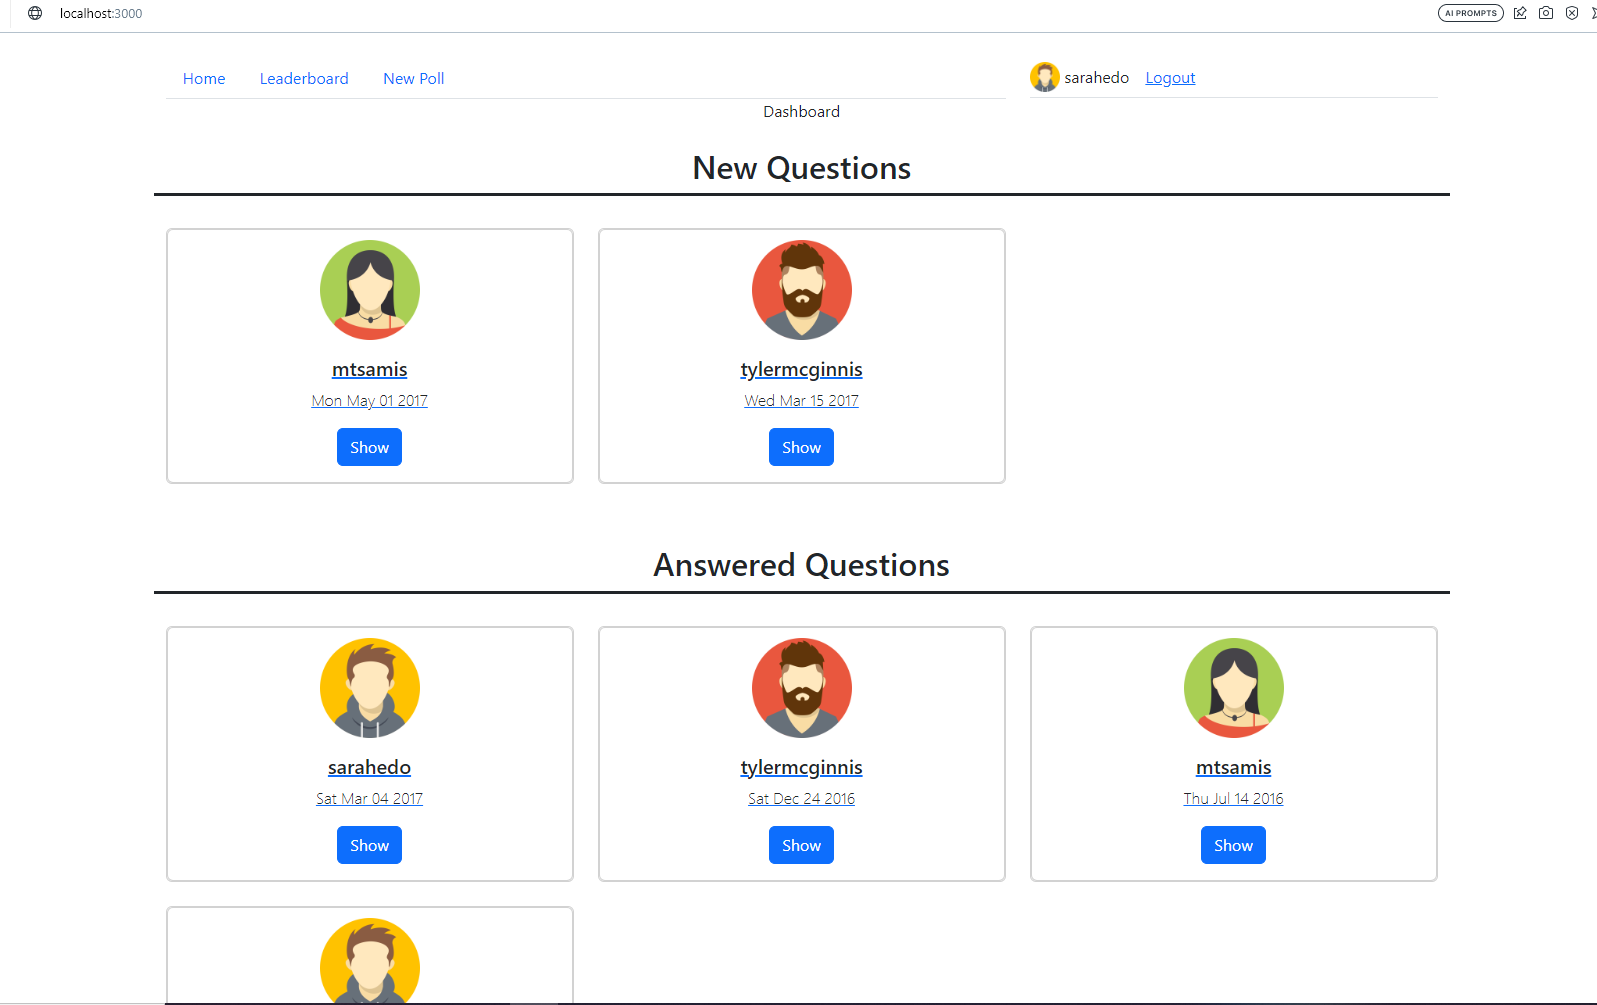
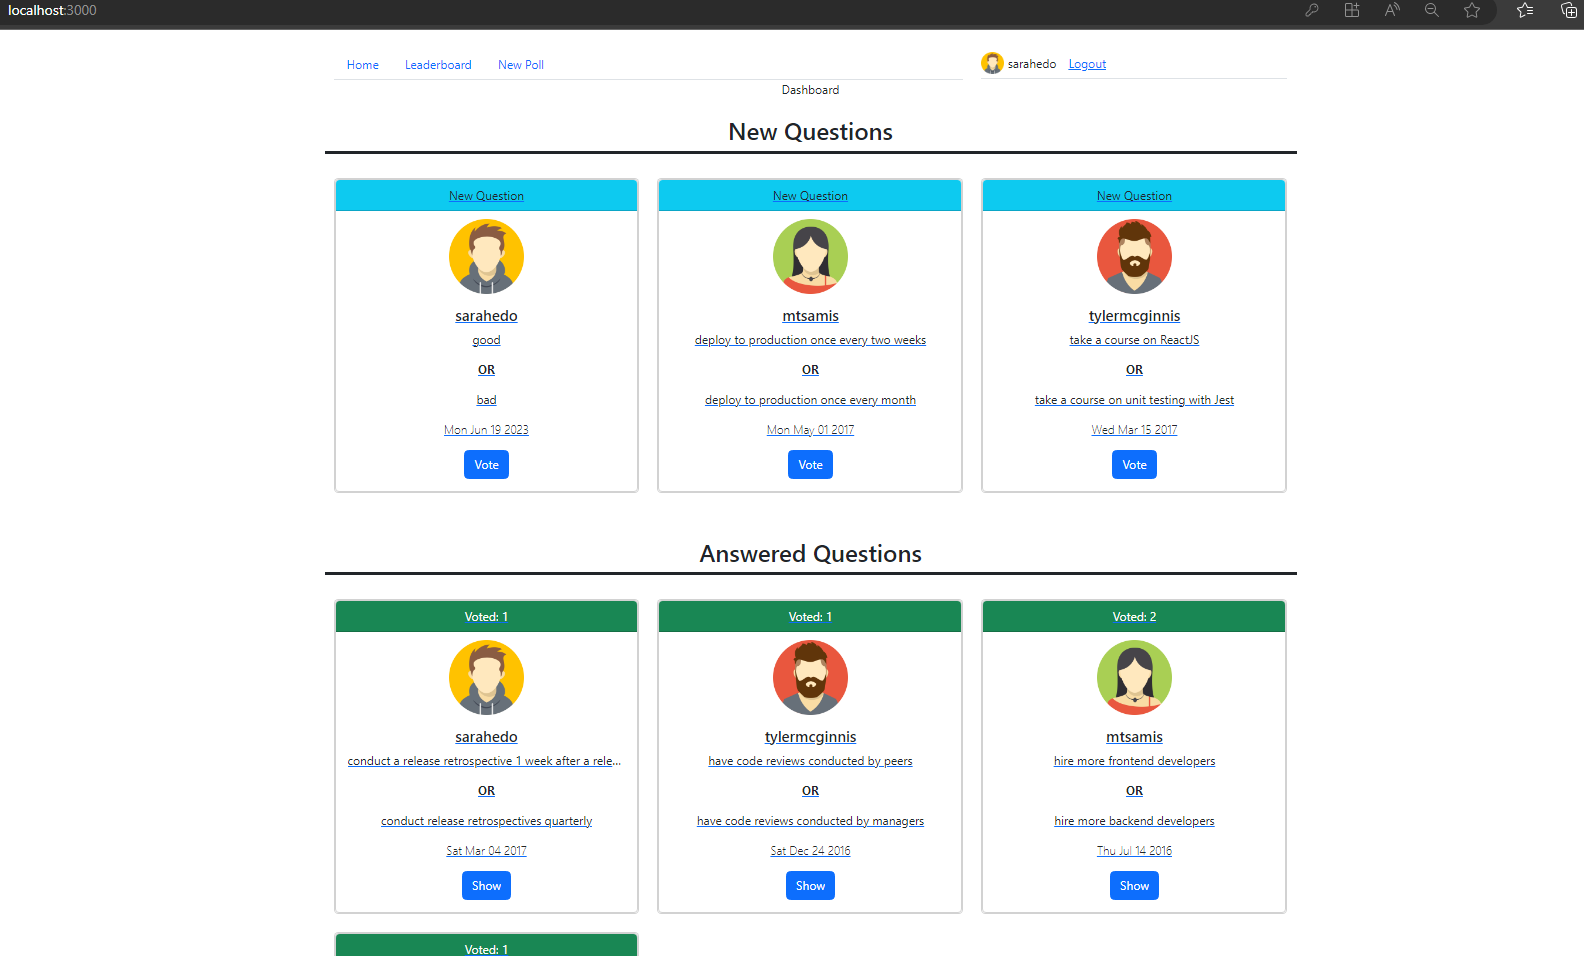
master | Update new question and answer question model and show detail information answer question and image

diff --git a/react-would-you-rather/src/components/Card.js b/react-would-you-rather/src/components/Card.js
@@ -1,16 +1,35 @@
 import { connect } from "react-redux";
 import { Link } from "react-router-dom";
 
-const Card = ({ question, author }) => {
+const Card = ({ question, author, hasVoted }) => {
+
     return (
         <Link to={'questions/' + question.id}>
-            <div className="card" style={{textAlign:'center',display:'block', marginLeft:'auto', marginRight:'auto'}}>
-                <img src={author?.avatarURL} style={{height:'100px', width:'100px', marginTop:'10px'}} className="card-img-top" alt="Author"/>
-                    <div className="card-body">
-                        <h5 className="card-title">{question.author}</h5>
-                        <p className="fw-light">{new Date(question.timestamp).toDateString()}</p>
-                        <button className="btn btn-primary">Show</button>
-                    </div>
+            <div className="card" style={{ textAlign: 'center', display: 'block', marginLeft: 'auto', marginRight: 'auto' }}>
+                {
+                    hasVoted ?
+                        <div className="card-header bg-success text-white">
+                            Voted: {question.optionOne.votes.length + question.optionTwo.votes.length}
+                        </div>
+                        :
+                        <div className="card-header bg-info text-dark">
+                            New Question
+                        </div>
+                }
+                <img src={author?.avatarURL} style={{ height: '100px', width: '100px', marginTop: '10px' }} className="card-img-top" alt="Author" />
+                <div className="card-body">
+                    <h5 className="card-title">{question.author}</h5>
+                    <p className="text-truncate">{question.optionOne.text}</p>
+                    <p className="fw-bolder">OR</p>
+                    <p className="text-truncate">{question.optionTwo.text}</p>
+                    <p className="fw-light">{new Date(question.timestamp).toDateString()}</p>
+                    {
+                        hasVoted ?
+                            <button className="btn btn-primary">Show</button>
+                            :
+                            <button className="btn btn-primary">Vote</button>
+                    }
+                </div>
             </div>
         </Link>
     );

diff --git a/react-would-you-rather/src/components/PollPage.js b/react-would-you-rather/src/components/PollPage.js
@@ -63,14 +63,22 @@ const PollPage = ({ dispatch, authedUser, question, author }) => {
                             <div className="d-grid gap-1">
                                 <button onClick={handleOptionOne} disabled={hasVoted} className="btn btn-primary">
                                     {!hasVoted &&
-                                        <p p style={{ margin: '0px' }}>Click</p>
+                                        <p style={{ margin: '0px' }}>Click</p>
                                     }
                                     {hasVoted &&
-                                        <p p style={{ margin: '0px' }}>Votes: {question.optionOne.votes.length} ({calcPercentage("optionOne", question)})</p>
+                                        <p style={{ margin: '0px' }}>Votes: {question.optionOne.votes.length} ({calcPercentage("optionOne", question)})</p>
                                     }
                                 </button>
                             </div>
                         </div>
+                        {
+                            hasVoted && question.optionOne.votes.length > 0 &&
+                            <div className="card-footer text-muted">
+                                {question.optionOne.votes.map((item) => {
+                                    return <p key={item}>{item}</p>;
+                                })}
+                            </div>
+                        }
                     </div>
                 </div>
                 <div className="col-6">
@@ -91,6 +99,14 @@ const PollPage = ({ dispatch, authedUser, question, author }) => {
                                 </button>
                             </div>
                         </div>
+                        {
+                            hasVoted && question.optionTwo.votes.length > 0 &&
+                            <div className="card-footer text-muted">
+                                {question.optionTwo.votes.map((item) => {
+                                    return <p key={item}>{item}</p>;
+                                })}
+                            </div>
+                        }
                     </div>
                 </div>
             </div>
